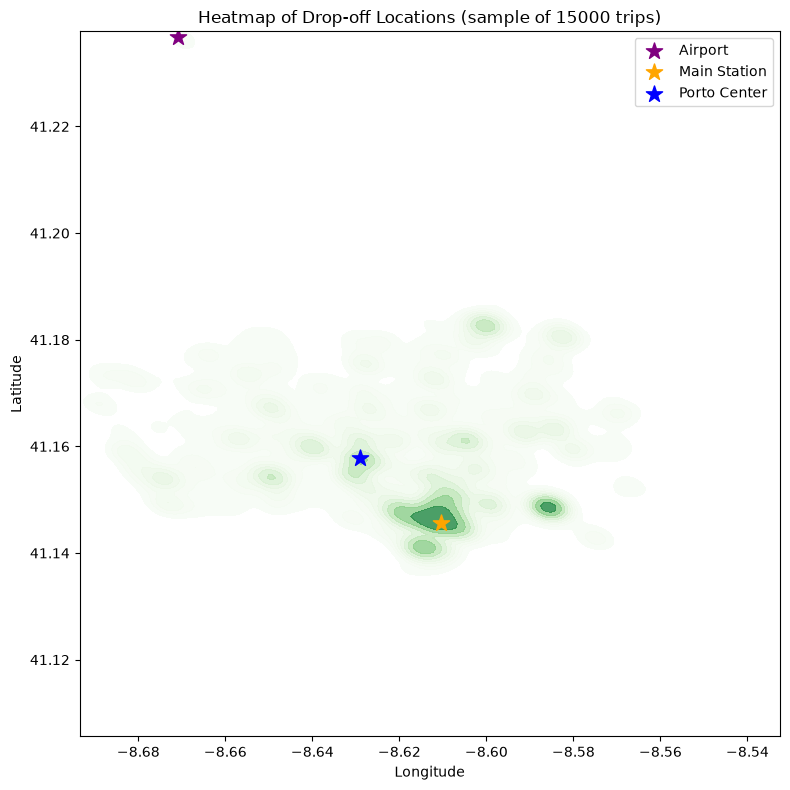
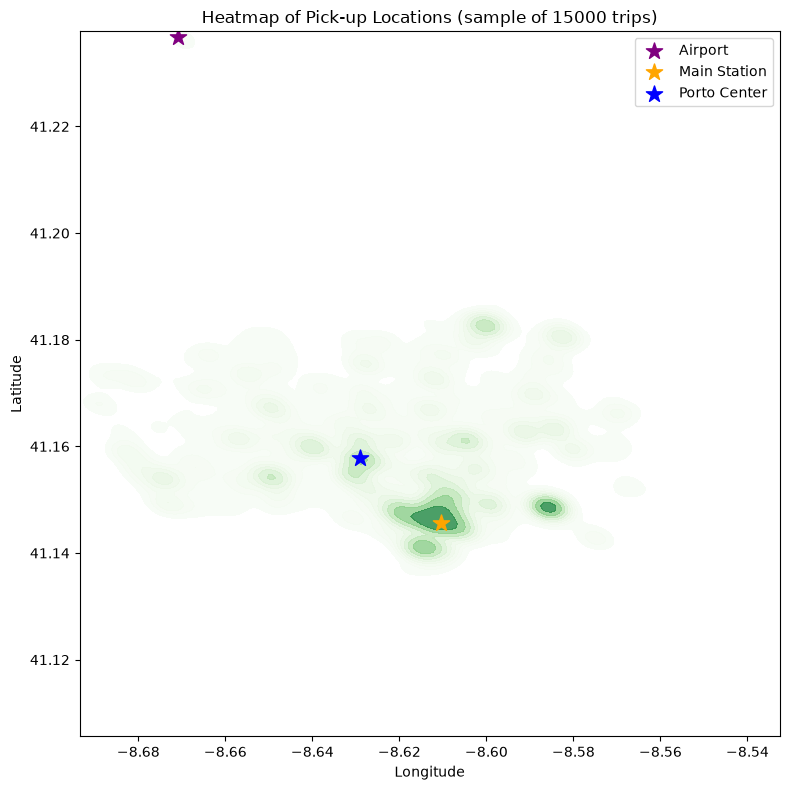
Fix typo in heatmap pickup title

Changed region(s): [[0.243, 0.0, 0.8506, 0.0304]]

diff --git a/src/insert.py b/src/insert.py
@@ -46,8 +46,9 @@ class DataInserter:
             None
         """
         df = self.load_data()
-        df = self.prepare_polylines(df)
+        df = self.parse_polylines(df)
         df = self.remove_duplicate_trips(df)
+        df = self.remove_invalid_polylines(df)
         df = self.add_derived_fields(df)
         df = self.remove_outliers(df)
         print(f"Rows ready for insertion: {len(df):,}")
@@ -95,18 +96,33 @@ class DataInserter:
 
         return [[float(point[0]), float(point[1])] for point in parsed]
 
-    def prepare_polylines(self, df) -> pd.DataFrame:
-        """Parse POLYLINE values and remove empty or invalid trajectories.
+    def parse_polylines(self, df) -> pd.DataFrame:
+        """Parse every POLYLINE value into a list of coordinates.
+
+        Unusable values become None, so they can be removed after duplicates are handled.
 
         Args:
             df (pd.DataFrame): The Porto taxi data with raw POLYLINE values.
         Returns:
-            pd.DataFrame: The data with parsed POLYLINE values and invalid rows removed.
+            pd.DataFrame: The data with parsed POLYLINE values.
         """
-        before = len(df)
         df = df.copy()
         df["POLYLINE"] = df["POLYLINE"].map(self.parse_polyline)
-        invalid_or_empty = df["POLYLINE"].isna() | df["POLYLINE"].map(len).eq(0)
+        return df
+
+    @staticmethod
+    def remove_invalid_polylines(df) -> pd.DataFrame:
+        """Remove trips with an empty or invalid POLYLINE.
+
+        Args:
+            df (pd.DataFrame): The Porto taxi data with parsed POLYLINE values.
+        Returns:
+            pd.DataFrame: The data with empty and invalid trajectories removed.
+        """
+        before = len(df)
+        invalid_or_empty = df["POLYLINE"].map(
+            lambda polyline: polyline is None or len(polyline) == 0
+        )
         removed = int(invalid_or_empty.sum())
         df = df.loc[~invalid_or_empty].copy()
         print(f"Cleaning empty/invalid POLYLINE rows: removed {removed:,} of {before:,}")
@@ -116,6 +132,10 @@ class DataInserter:
     def remove_duplicate_trips(df) -> pd.DataFrame:
         """Keep the row with the longest trajectory for each TRIP_ID.
 
+        Runs before empty and invalid trajectories are removed, so every duplicate
+        row in the raw data is counted. An invalid POLYLINE counts as shorter than
+        an empty one, so a valid copy is always kept when one exists.
+
         Args:
             df (pd.DataFrame): The Porto taxi data with parsed POLYLINE values.
         Returns:
@@ -124,7 +144,9 @@ class DataInserter:
         before = len(df)
         duplicate_rows = int(df["TRIP_ID"].duplicated(keep=False).sum())
         df = df.copy()
-        df["_trajectory_length"] = df["POLYLINE"].map(len)
+        df["_trajectory_length"] = df["POLYLINE"].map(
+            lambda polyline: -1 if polyline is None else len(polyline)
+        )
         df = (
             df.sort_values("_trajectory_length", ascending=False, kind="mergesort")
             .drop_duplicates(subset="TRIP_ID", keep="first")
